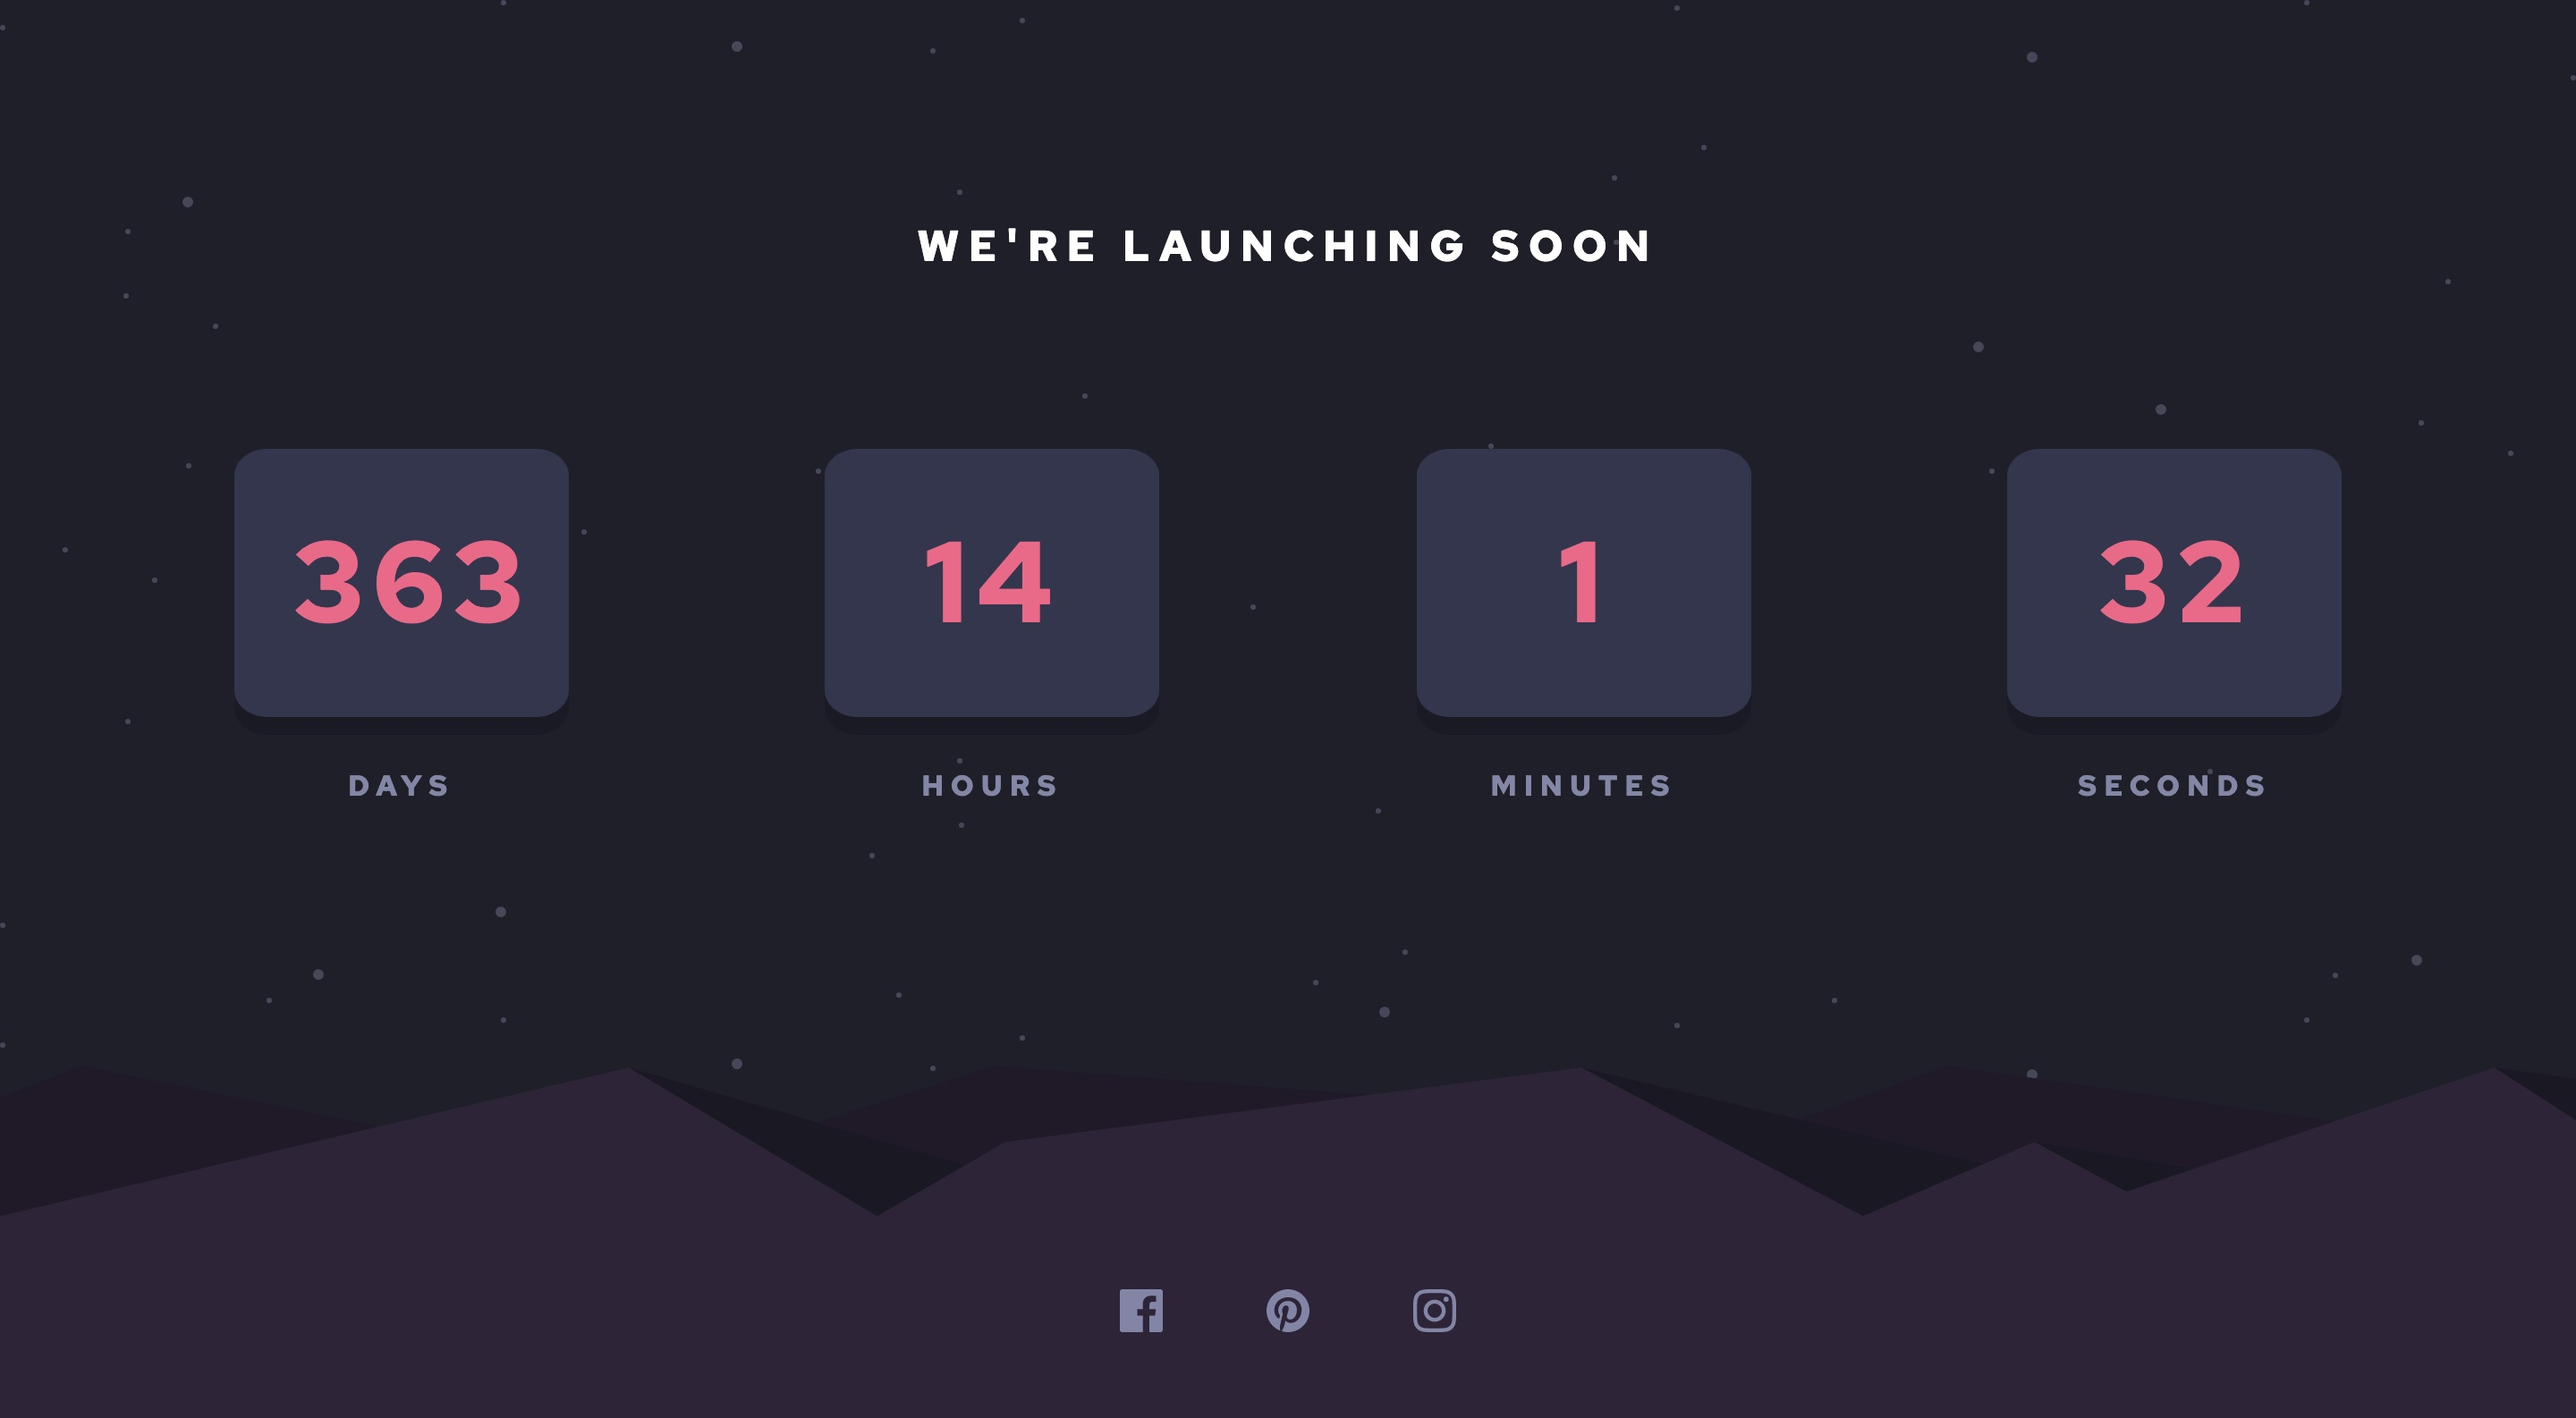
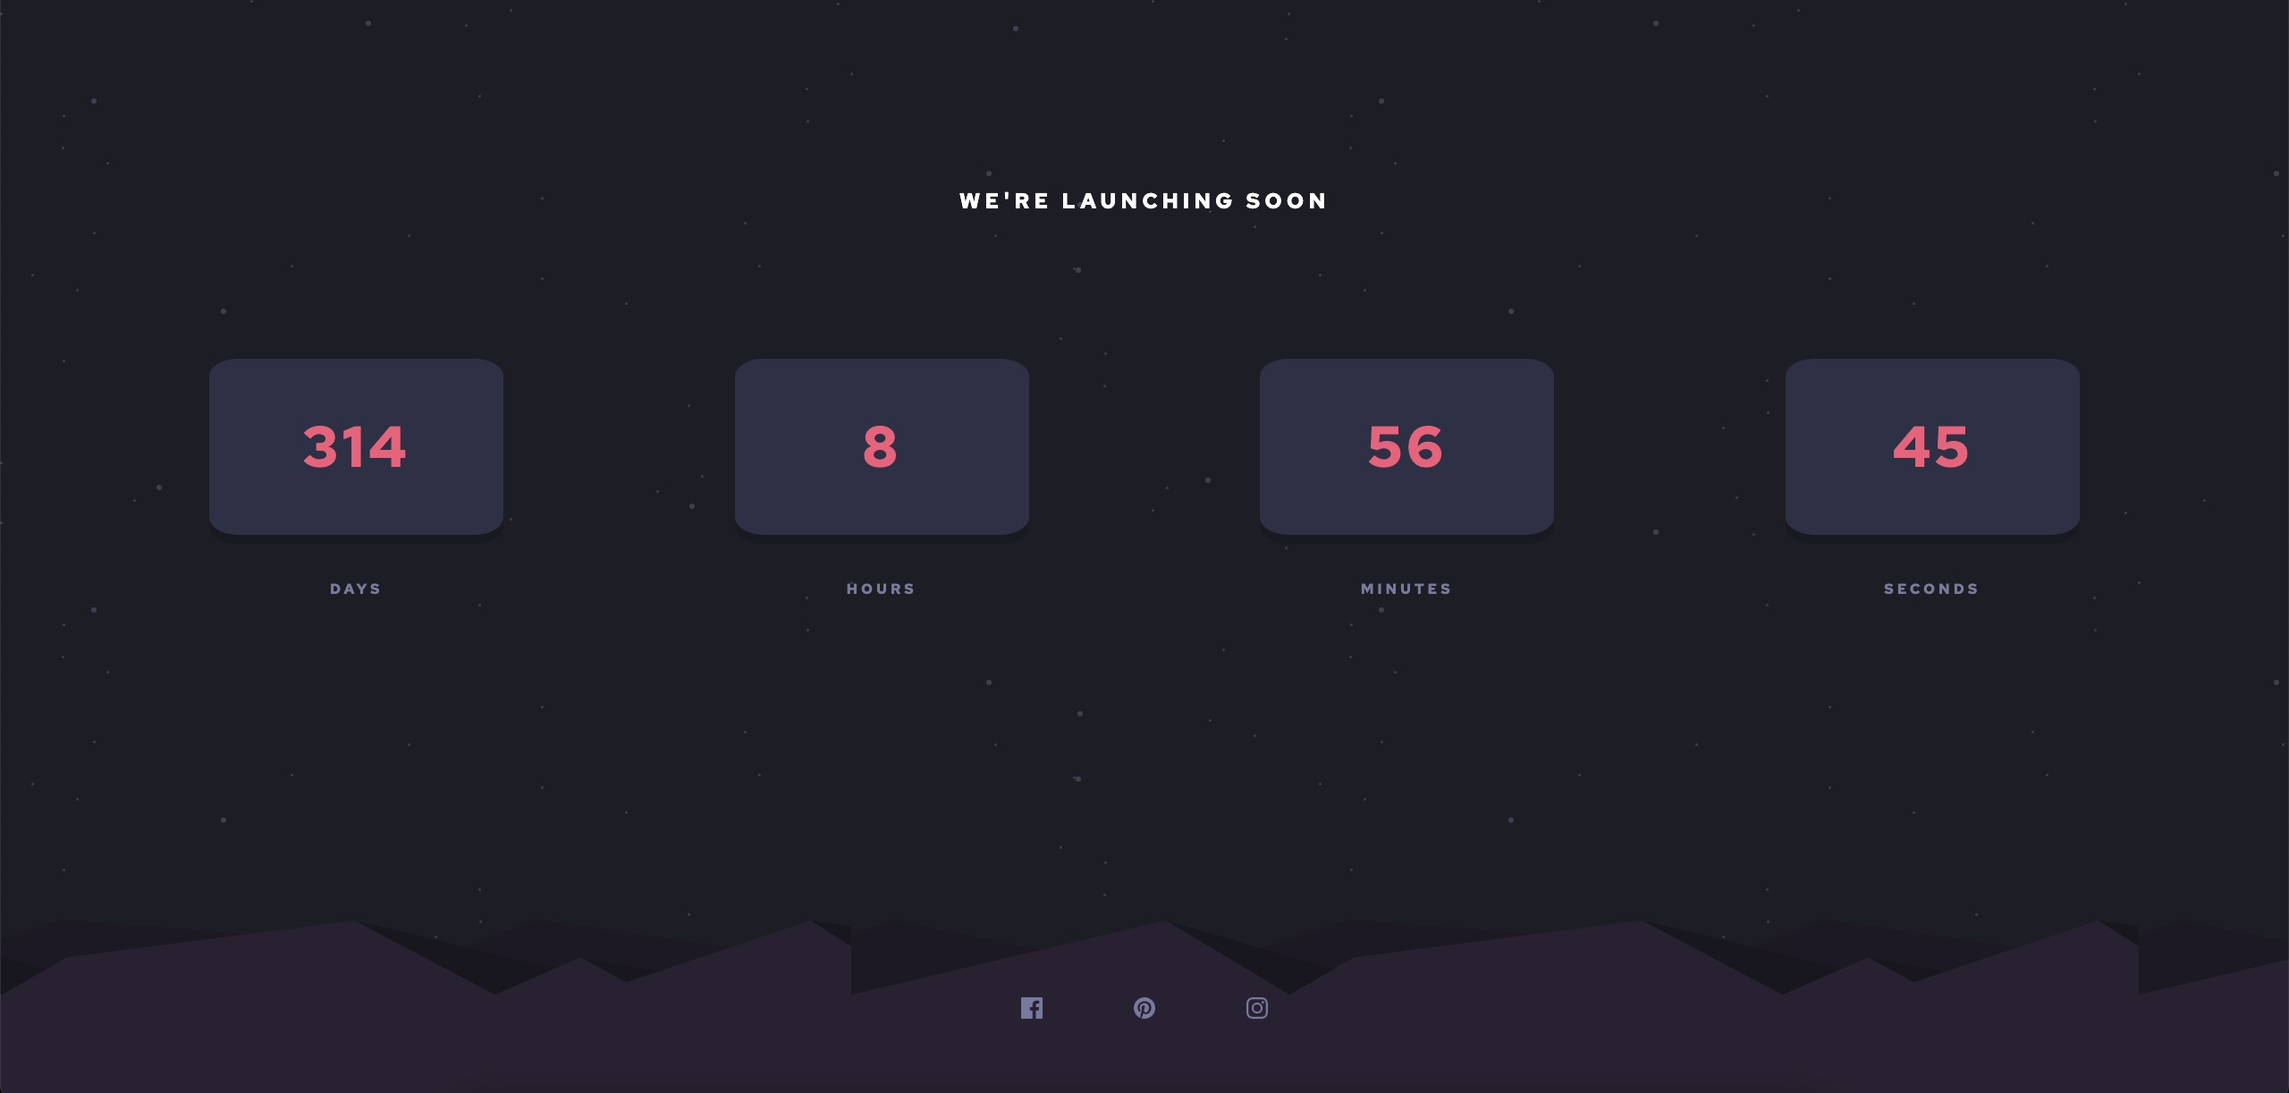
update bg styling for larger screens

diff --git a/styles.css b/styles.css
@@ -182,6 +182,10 @@ body .icons a svg:hover {
 }
 
 @media screen and (min-device-width: 1200px) {
+  body {
+    background: url(images/pattern-hills.svg) repeat-x 85% 100%, url(images/bg-stars.svg);
+    background-color: #1e1f29;
+  }
   body main h2 {
     padding-top: 5%;
   }

diff --git a/styles.scss b/styles.scss
@@ -179,6 +179,8 @@ body{
   and (min-device-width: 1200px) {
 
 body{
+    background: url(images/pattern-hills.svg) repeat-x 85% 100%, url(images/bg-stars.svg);
+    background-color: $bg-color;
         main{
             h2{
                 padding-top: 5%;

diff --git a/index.html b/index.html
@@ -8,7 +8,7 @@
   <link rel="stylesheet" href="styles.css">
   <script src="index.js"></script>
   
-  <title>Countdown timer</title>
+  <title>Countdown Timer</title>
 </head>
 <body>
   <main>
